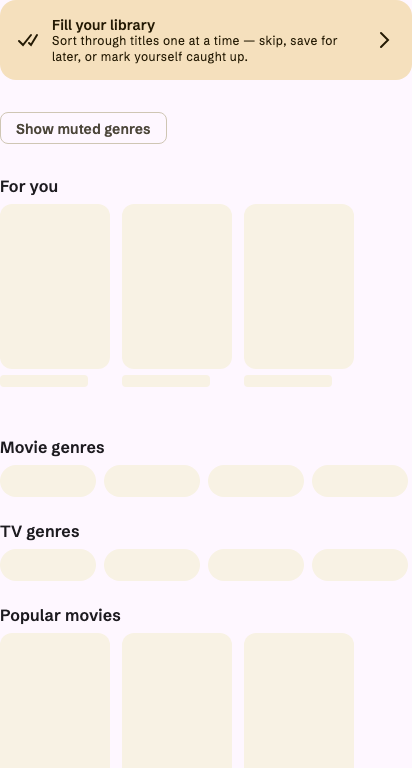
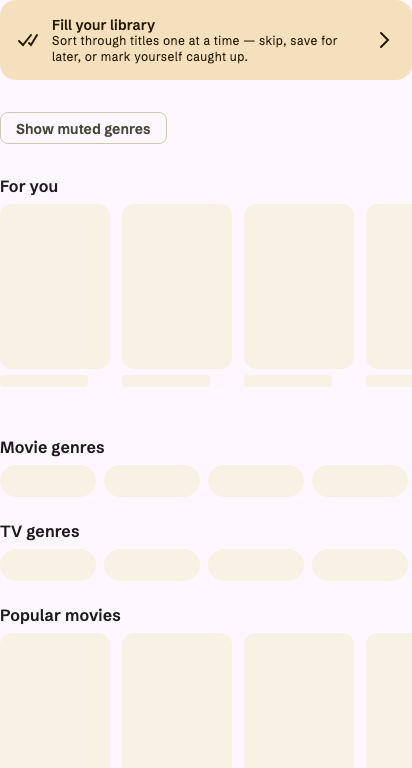
fix(home): the partly visible skeleton card keeps its 110 dp width
Review of #747: the skeleton row was a bounded Row, which measures its children with
the width left over, so the partly visible third card at 328 dp was clamped to 84 dp
and no longer matched the loaded card it stands in for.

The row is now measured unbounded and start-aligned, and the clip trims the overflow,
as the loaded LazyRow does. Start alignment keeps each card in its slot (requiredWidth
would centre an over-wide child and shift it onto the previous one).

CarouselSkeletonRowTest pins the third card at 244 dp, 110 dp wide. The home-skeleton
goldens are re-recorded: the row now shows a fourth card clipped at the frame edge,
which the loaded row also shows at that width.

Changed region(s): [[0.8738, 0.25, 1.0, 0.5312], [0.8738, 0.8125, 1.0, 1.0]]

diff --git a/feature/search/ui/src/commonMain/kotlin/com/codingpit/muviss/feature/search/ui/SearchScreen.kt b/feature/search/ui/src/commonMain/kotlin/com/codingpit/muviss/feature/search/ui/SearchScreen.kt
@@ -12,6 +12,7 @@ import androidx.compose.foundation.layout.fillMaxWidth
 import androidx.compose.foundation.layout.padding
 import androidx.compose.foundation.layout.size
 import androidx.compose.foundation.layout.width
+import androidx.compose.foundation.layout.wrapContentWidth
 import androidx.compose.foundation.lazy.LazyRow
 import androidx.compose.foundation.lazy.grid.GridItemSpan
 import androidx.compose.foundation.lazy.grid.LazyVerticalGrid
@@ -256,12 +257,24 @@ private fun PopularSection(title: String, items: List<MediaSummary>, loading: Bo
 private fun CarouselSkeleton(title: String) {
     Column {
         CarouselHeader(title, modifier = Modifier.padding(bottom = MuvissSpacing.s))
-        // Clipped as the loaded LazyRow is, so the partly visible last card stops at the same edge.
-        BoxWithConstraints(Modifier.fillMaxWidth().clipToBounds()) {
-            val count = carouselSkeletonCount(maxWidth)
-            Row(horizontalArrangement = Arrangement.spacedBy(MuvissSpacing.m)) {
-                repeat(count) { PosterCardSkeleton(Modifier.width(POSTER_CARD_WIDTH)) }
-            }
+        CarouselSkeletonRow()
+    }
+}
+
+/**
+ * The placeholder cards of a carousel, as many as [carouselSkeletonCount] allows. The row is measured unbounded and
+ * start-aligned, so the partly visible last card keeps its full 110 dp; the clip trims the part past the edge, as the
+ * loaded `LazyRow` does. A bounded `Row` would hand that card only the width left over and shrink it.
+ */
+@Composable
+internal fun CarouselSkeletonRow(modifier: Modifier = Modifier, cardModifier: Modifier = Modifier) {
+    BoxWithConstraints(modifier.fillMaxWidth().clipToBounds()) {
+        val count = carouselSkeletonCount(maxWidth)
+        Row(
+            Modifier.wrapContentWidth(Alignment.Start, unbounded = true),
+            horizontalArrangement = Arrangement.spacedBy(MuvissSpacing.m),
+        ) {
+            repeat(count) { PosterCardSkeleton(Modifier.width(POSTER_CARD_WIDTH).then(cardModifier)) }
         }
     }
 }

diff --git a/feature/search/ui/src/jvmTest/kotlin/com/codingpit/muviss/feature/search/ui/CarouselSkeletonRowTest.kt b/feature/search/ui/src/jvmTest/kotlin/com/codingpit/muviss/feature/search/ui/CarouselSkeletonRowTest.kt
@@ -1,0 +1,43 @@
+@file:OptIn(androidx.compose.ui.test.ExperimentalTestApi::class)
+
+package com.codingpit.muviss.feature.search.ui
+
+import androidx.compose.foundation.layout.Box
+import androidx.compose.foundation.layout.width
+import androidx.compose.ui.Modifier
+import androidx.compose.ui.platform.testTag
+import androidx.compose.ui.test.getUnclippedBoundsInRoot
+import androidx.compose.ui.test.onAllNodesWithTag
+import androidx.compose.ui.test.runComposeUiTest
+import androidx.compose.ui.unit.dp
+import androidx.compose.ui.unit.width
+import com.codingpit.muviss.core.designsystem.theme.MuvissTheme
+import kotlin.test.Test
+import kotlin.test.assertEquals
+
+/**
+ * At 328 dp the loaded row shows a third card 84 dp into view, at its full 110 dp width (#747 review). A bounded
+ * Row shrank that card to the width left over, so the placeholder no longer matched the card that replaced it.
+ */
+class CarouselSkeletonRowTest {
+
+    private val card = "skeletonCard"
+
+    @Test
+    fun the_partly_visible_card_keeps_its_full_width_in_its_slot() = runComposeUiTest {
+        setContent {
+            MuvissTheme(darkTheme = false) {
+                Box(Modifier.width(328.dp)) {
+                    CarouselSkeletonRow(cardModifier = Modifier.testTag(card))
+                }
+            }
+        }
+        waitForIdle()
+
+        val cards = onAllNodesWithTag(card, useUnmergedTree = true).fetchSemanticsNodes()
+        assertEquals(3, cards.size)
+        val third = onAllNodesWithTag(card, useUnmergedTree = true)[2].getUnclippedBoundsInRoot()
+        assertEquals(244f, third.left.value, "the third card starts in its slot, 2 x 122 dp in")
+        assertEquals(110f, third.width.value, "the third card keeps its full 110 dp")
+    }
+}
